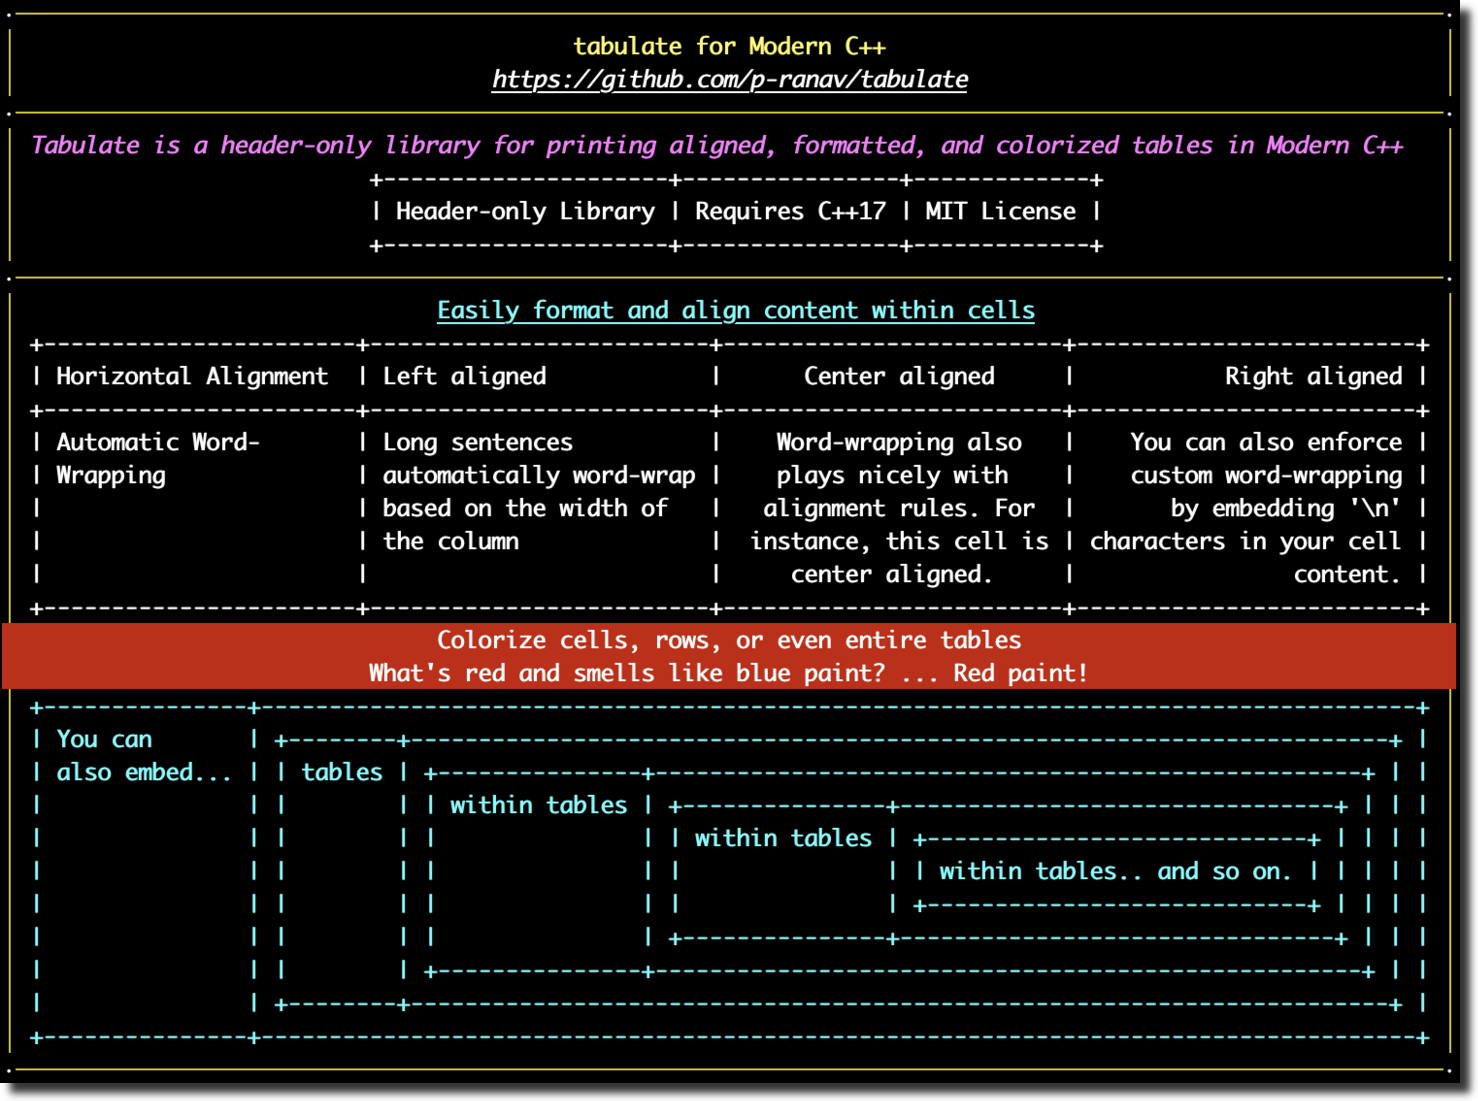
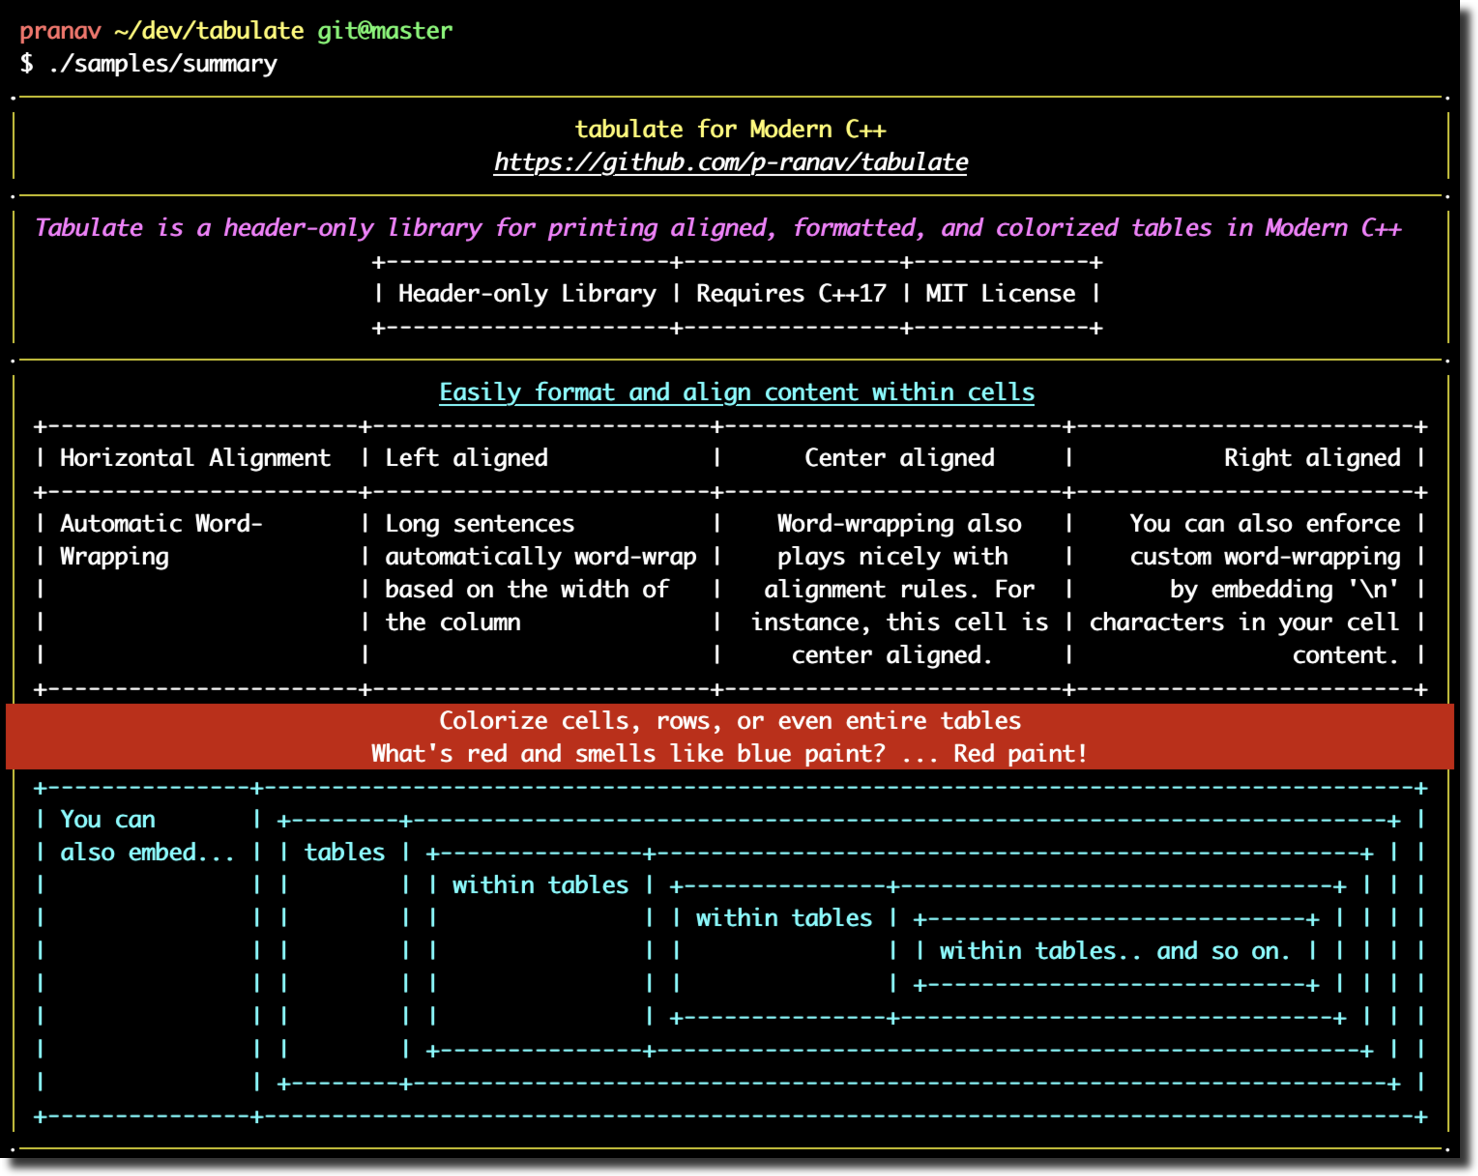
Minor updates

Changed region(s): [[0.0, 0.0, 0.9959, 0.9882]]

diff --git a/samples/summary.cpp b/samples/summary.cpp
@@ -89,5 +89,10 @@ int main() {
     .font_color(Color::cyan);
 
   // Print the table
-  std::cout << "\n\n" << readme << "\n\n";
+  std::cout << "\n\n";
+  std::cout << termcolor::bold << termcolor::red << " pranav";
+  std::cout << termcolor::bold << termcolor::yellow << " ~/dev/tabulate" << termcolor::reset;
+  std::cout << termcolor::bold << termcolor::green << " git@master" << std::endl;
+  std::cout << termcolor::bold << termcolor::white << " $ ./samples/summary\n"; 
+  std::cout << readme << "\n\n";
 }
